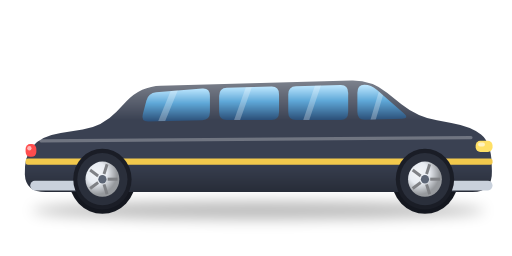
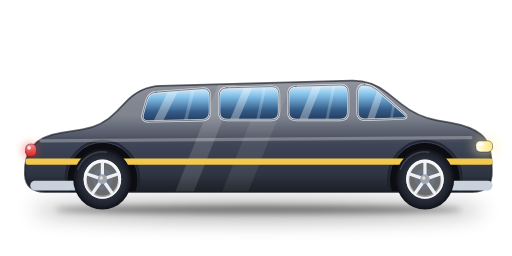
Garaj arabaları: daha ayrıntılı çizimler
Işıklı gövde, çamurluk boşlukları, krom cam çerçeveleri, ayrıntılı jantlar, parlayan farlar, yumuşak zemin gölgesi.

Claude-Session: https://claude.ai/code/session_01AkZALok8tea9mkb9vsdb34

diff --git a/scripts/make_cars.py b/scripts/make_cars.py
@@ -32,40 +32,92 @@ def stroke(c, path, color, w, corner=0, alpha=255):
 def vgrad(y0, y1, cols, pos=None):
     return skia.GradientShader.MakeLinear([(0,y0),(0,y1)], [hx(x) for x in cols], pos)
 
-def body(c, pts, color, corner=26, top=None, bottom=GROUND-18):
-    ys=[p[1] for p in pts]; y0=min(ys)
-    sh = vgrad(y0, bottom, [mix(color,.35), color, color, mix(color,.35,'#000000')], [0,.35,.7,1])
-    fill(c, poly(pts), None, corner, sh)
+def body(c, pts, color, corner=26, top=None, bottom=GROUND-18, arches=None):
+    """Gövde: dikey ışık gradyanı, omuz parlaklığı, koyu eşik, çamurluk boşlukları, dış çizgi."""
+    ys=[p[1] for p in pts]; xs=[p[0] for p in pts]; y0=min(ys); x0=min(xs); x1=max(xs)
+    path = poly(pts)
+    sh = vgrad(y0, bottom, [mix(color,.45), mix(color,.12), color, mix(color,.38,'#000000')], [0,.3,.62,1])
+    fill(c, path, None, corner, sh)
+    c.save()
+    clip = skia.Path(path); pe = skia.CornerPathEffect.Make(corner) if corner else None
+    if pe:
+        p2 = skia.Path(); skia.Paint(PathEffect=pe).getFillPath(path, p2); clip = p2
+    c.clipPath(clip, doAntiAlias=True)
+    # omuz çizgisi parlaklığı
+    band = skia.GradientShader.MakeLinear([(0, y0), (0, y0 + (bottom - y0) * .55)], [hx('#FFFFFF', 0), hx('#FFFFFF', 70), hx('#FFFFFF', 0)], [0, .55, 1])
+    pb = skia.Paint(AntiAlias=True); pb.setShader(band); c.drawRect(skia.Rect(x0, y0, x1, y0 + (bottom - y0) * .55), pb)
+    # çapraz yansıma
+    for k, a in ((0, 34), (1, 20)):
+        xx = x0 + (x1 - x0) * (.32 + k * .1)
+        fill(c, poly([(xx, bottom), (xx + 60, y0), (xx + 84 + k * 10, y0), (xx + 24 + k * 10, bottom)]), '#FFFFFF', alpha=a)
+    # alt eşik
+    sill = skia.GradientShader.MakeLinear([(0, bottom - 26), (0, bottom + 4)], [hx('#000000', 0), hx('#000000', 90)])
+    ps = skia.Paint(AntiAlias=True); ps.setShader(sill); c.drawRect(skia.Rect(x0, bottom - 26, x1, bottom + 30), ps)
+    # çamurluk boşlukları (tekerleğin arkası koyu)
+    for (ax, ar) in (arches or []):
+        pa = skia.Paint(AntiAlias=True, Color=hx('#0B0D13')); c.drawCircle(ax, GROUND - ar, ar * 1.2, pa)
+        pr = skia.Paint(AntiAlias=True, Style=skia.Paint.kStroke_Style, StrokeWidth=3, Color=hx(mix(color, .5, '#000000'), 200))
+        c.drawCircle(ax, GROUND - ar, ar * 1.26, pr)
+    c.restore()
+    stroke(c, path, mix(color, .55, '#000000'), 2.2, corner, 170)
 
 def glass(c, pts, corner=10):
-    ys=[p[1] for p in pts]
-    sh = vgrad(min(ys), max(ys), ['#BFE8FF', '#5FA8D8', '#2B4F78'], [0, .45, 1])
+    ys=[p[1] for p in pts]; xs=[p[0] for p in pts]
+    x0=min(xs); x1=max(xs); yy=min(ys); y2=max(ys)
+    sh = vgrad(yy, y2, ['#D6F0FF', '#7FBDE6', '#355E8A', '#22395A'], [0, .3, .7, 1])
     fill(c, poly(pts), None, corner, sh)
-    # yansıma
-    xs=[p[0] for p in pts]; x0=min(xs); x1=max(xs); yy=min(ys); y2=max(ys)
-    c.save(); c.clipPath(poly(pts), doAntiAlias=True)
-    fill(c, poly([(x0+(x1-x0)*.25,y2),(x0+(x1-x0)*.45,yy),(x0+(x1-x0)*.55,yy),(x0+(x1-x0)*.35,y2)]), '#FFFFFF', 0, alpha=70)
+    c.save()
+    clip = poly(pts)
+    if corner:
+        p2 = skia.Path(); skia.Paint(PathEffect=skia.CornerPathEffect.Make(corner)).getFillPath(clip, p2); clip = p2
+    c.clipPath(clip, doAntiAlias=True)
+    fill(c, poly([(x0+(x1-x0)*.18,y2),(x0+(x1-x0)*.42,yy),(x0+(x1-x0)*.56,yy),(x0+(x1-x0)*.32,y2)]), '#FFFFFF', alpha=85)
+    fill(c, poly([(x0+(x1-x0)*.62,y2),(x0+(x1-x0)*.74,yy),(x0+(x1-x0)*.79,yy),(x0+(x1-x0)*.67,y2)]), '#FFFFFF', alpha=55)
     c.restore()
+    stroke(c, poly(pts), '#E3E8EF', 3, corner, 230)   # krom çerçeve
+    stroke(c, poly(pts), '#1A1D26', 1, corner, 160)
 
 def wheel(c, cx, r, rim='#C9D1DC', cy=None, spokes=5, arch=None):
     cy = cy or GROUND - r
     if arch: fill(c, skia.Path().addCircle(cx, cy, r*1.12), arch)
-    p=skia.Paint(AntiAlias=True, Color=hx('#1A1D26')); c.drawCircle(cx, cy, r, p)
-    p.setColor(hx('#2A2F3B')); c.drawCircle(cx, cy, r*.86, p)
-    sh = skia.GradientShader.MakeRadial((cx-r*.2, cy-r*.2), r*.7, [hx(mix(rim,.5)), hx(rim), hx(mix(rim,.35,'#000000'))])
-    p=skia.Paint(AntiAlias=True); p.setShader(sh); c.drawCircle(cx, cy, r*.58, p)
-    sp=skia.Paint(AntiAlias=True, Style=skia.Paint.kStroke_Style, StrokeWidth=r*.1, Color=hx(mix(rim,.45,'#000000')))
+    tire = skia.GradientShader.MakeRadial((cx, cy), r, [hx('#2E3340'), hx('#1E222C'), hx('#0F1117')], [0.6, 0.85, 1])
+    p=skia.Paint(AntiAlias=True); p.setShader(tire); c.drawCircle(cx, cy, r, p)
+    hl=skia.Paint(AntiAlias=True, Style=skia.Paint.kStroke_Style, StrokeWidth=r*.05, Color=hx('#FFFFFF', 40))
+    c.drawArc(skia.Rect(cx-r*.9, cy-r*.9, cx+r*.9, cy+r*.9), 200, 80, False, hl)
+    # jant
+    rr = r*.64
+    sh = skia.GradientShader.MakeLinear([(cx, cy-rr), (cx, cy+rr)], [hx(mix(rim,.6)), hx(rim), hx(mix(rim,.4,'#000000'))])
+    p=skia.Paint(AntiAlias=True); p.setShader(sh); c.drawCircle(cx, cy, rr, p)
+    p=skia.Paint(AntiAlias=True, Color=hx(mix(rim,.55,'#000000'))); c.drawCircle(cx, cy, rr*.84, p)   # iç gölge
+    p=skia.Paint(AntiAlias=True, Color=hx('#6B7280')); c.drawCircle(cx, cy, rr*.55, p)                 # fren diski
+    sp=skia.Paint(AntiAlias=True, Style=skia.Paint.kStroke_Style, StrokeWidth=r*.11, Color=hx(mix(rim,.25)))
+    sp.setStrokeCap(skia.Paint.kRound_Cap)
     for k in range(spokes):
-        a=k*2*math.pi/spokes; c.drawLine(cx+math.cos(a)*r*.18, cy+math.sin(a)*r*.18, cx+math.cos(a)*r*.52, cy+math.sin(a)*r*.52, sp)
-    p=skia.Paint(AntiAlias=True, Color=hx('#5C6575')); c.drawCircle(cx, cy, r*.14, p)
+        a=k*2*math.pi/spokes - math.pi/2
+        c.drawLine(cx+math.cos(a)*rr*.22, cy+math.sin(a)*rr*.22, cx+math.cos(a)*rr*.86, cy+math.sin(a)*rr*.86, sp)
+    lip=skia.Paint(AntiAlias=True, Style=skia.Paint.kStroke_Style, StrokeWidth=r*.06, Color=hx(mix(rim,.7)))
+    c.drawCircle(cx, cy, rr*.96, lip)
+    p=skia.Paint(AntiAlias=True, Color=hx(mix(rim,.3,'#000000'))); c.drawCircle(cx, cy, r*.16, p)
+    p=skia.Paint(AntiAlias=True, Color=hx('#FFFFFF', 160)); c.drawCircle(cx-r*.04, cy-r*.04, r*.06, p)
 
 def shadow(c, x0, x1):
-    p=skia.Paint(AntiAlias=True, Color=hx('#000000', 70)); p.setMaskFilter(skia.MaskFilter.MakeBlur(skia.kNormal_BlurStyle, 9))
-    c.drawOval(skia.Rect(x0, GROUND-10, x1, GROUND+12), p)
+    p=skia.Paint(AntiAlias=True, Color=hx('#000000', 80)); p.setMaskFilter(skia.MaskFilter.MakeBlur(skia.kNormal_BlurStyle, 12))
+    c.drawOval(skia.Rect(x0, GROUND-12, x1, GROUND+14), p)
+    p=skia.Paint(AntiAlias=True, Color=hx('#000000', 110)); p.setMaskFilter(skia.MaskFilter.MakeBlur(skia.kNormal_BlurStyle, 4))
+    c.drawOval(skia.Rect(x0+30, GROUND-5, x1-30, GROUND+5), p)
 
 def lamp(c, x, y, w, h, col, r=6):
-    fill(c, skia.Path().addRRect(skia.RRect.MakeRectXY(skia.Rect(x,y,x+w,y+h), r, r)), col)
-    fill(c, skia.Path().addRRect(skia.RRect.MakeRectXY(skia.Rect(x+w*.15,y+h*.15,x+w*.55,y+h*.5), r/2, r/2)), '#FFFFFF', alpha=150)
+    if col.upper() in ('#FFE066', '#FFD23F'):
+        g=skia.Paint(AntiAlias=True, Color=hx('#FFF3B0', 120)); g.setMaskFilter(skia.MaskFilter.MakeBlur(skia.kNormal_BlurStyle, 7))
+        c.drawRRect(skia.RRect.MakeRectXY(skia.Rect(x-3,y-3,x+w+6,y+h+3), r, r), g)
+        sh = skia.GradientShader.MakeLinear([(x, y), (x + w, y)], [hx('#FFFDF0'), hx('#FFE680')])
+    else:
+        g=skia.Paint(AntiAlias=True, Color=hx('#FF3B3B', 90)); g.setMaskFilter(skia.MaskFilter.MakeBlur(skia.kNormal_BlurStyle, 5))
+        c.drawRRect(skia.RRect.MakeRectXY(skia.Rect(x-4,y-2,x+w+2,y+h+2), r, r), g)
+        sh = skia.GradientShader.MakeLinear([(x, y), (x, y + h)], [hx('#FF8A8A'), hx('#D61F1F')])
+    fill(c, skia.Path().addRRect(skia.RRect.MakeRectXY(skia.Rect(x,y,x+w,y+h), r, r)), None, shader=sh)
+    stroke(c, skia.Path().addRRect(skia.RRect.MakeRectXY(skia.Rect(x,y,x+w,y+h), r, r)), '#1A1D26', 1.2, alpha=120)
+    fill(c, skia.Path().addRRect(skia.RRect.MakeRectXY(skia.Rect(x+w*.15,y+h*.15,x+w*.5,y+h*.45), r/2, r/2)), '#FFFFFF', alpha=200)
 
 def rect(c, x0,y0,x1,y1,col,r=4,alpha=255):
     fill(c, skia.Path().addRRect(skia.RRect.MakeRectXY(skia.Rect(x0,y0,x1,y1), r, r)), col, alpha=alpha)
@@ -88,8 +140,7 @@ def shine(c, pts, alpha=90):
 # ---------- Şablonlar ----------
 def car_generic(c, col, prof, win, pillars, wheels, wr, accent=None, lights=None, extra=None, rim='#C9D1DC', corner=26):
     xs=[p[0] for p in prof]; shadow(c, min(xs)+10, max(xs)-10)
-    for wx in wheels: fill(c, skia.Path().addCircle(wx, GROUND-wr, wr*1.14), '#14171F')
-    body(c, prof, col, corner)
+    body(c, prof, col, corner, arches=[(wx, wr) for wx in wheels])
     if extra and 'under' in extra: extra['under'](c)
     for w in win: glass(c, w)
     for px in pillars: rect(c, px[0], px[1], px[0]+px[2], px[3], mix(col,.15,'#000000'), 3)
@@ -113,7 +164,7 @@ def sedan(c, col, accent, kind='sedan'):
         if kind=='polis':
             rect(c,250,84,284,100,'#FF4D4D',5); rect(c,288,84,322,100,'#3A86FF',5)
             rect(c,40,196,578,216,'#3A86FF',4); rect(c,236,182,286,194,'#1A1D26',3,200)
-    car_generic(c,col,prof,win,[(298,108,10,152)],[160,465],38,lights=L,extra={'over':over})
+    car_generic(c,col,prof,win,[(298,108,10,152)],[160,465],38,lights=L,extra={'over':over},rim='#D7DEE8')
 
 def hatch(c, col, accent):
     prof=[(92,240),(86,190),(100,128),(160,96),(318,92),(392,140),(488,152),(524,176),(528,240)]
@@ -166,7 +217,7 @@ def sports(c, col, accent, kind='spor'):
     def L(c):
         lamp(c,588,176,26,10,'#FFE066',5); lamp(c,30,186,16,10,'#FF4D4D',5)
         rect(c,36,150,90,162,accent,4); rect(c,56,160,66,176,accent,2)  # rüzgârlık
-        rect(c,150,190,330,214,mix(col,.3,'#000000'),12,180)  # hava girişi
+        rect(c,236,194,420,208,mix(col,.35,'#000000'),7,120)  # yan hava girişi
         bumper(c,40,140,228,'#1A1D26'); bumper(c,480,612,228,'#1A1D26'); shine(c,[(60,180),(300,166),(590,180)],110)
         if kind=='altin':
             for (sx,sy,s) in [(120,120,9),(520,120,7),(420,80,6),(200,96,5)]:
